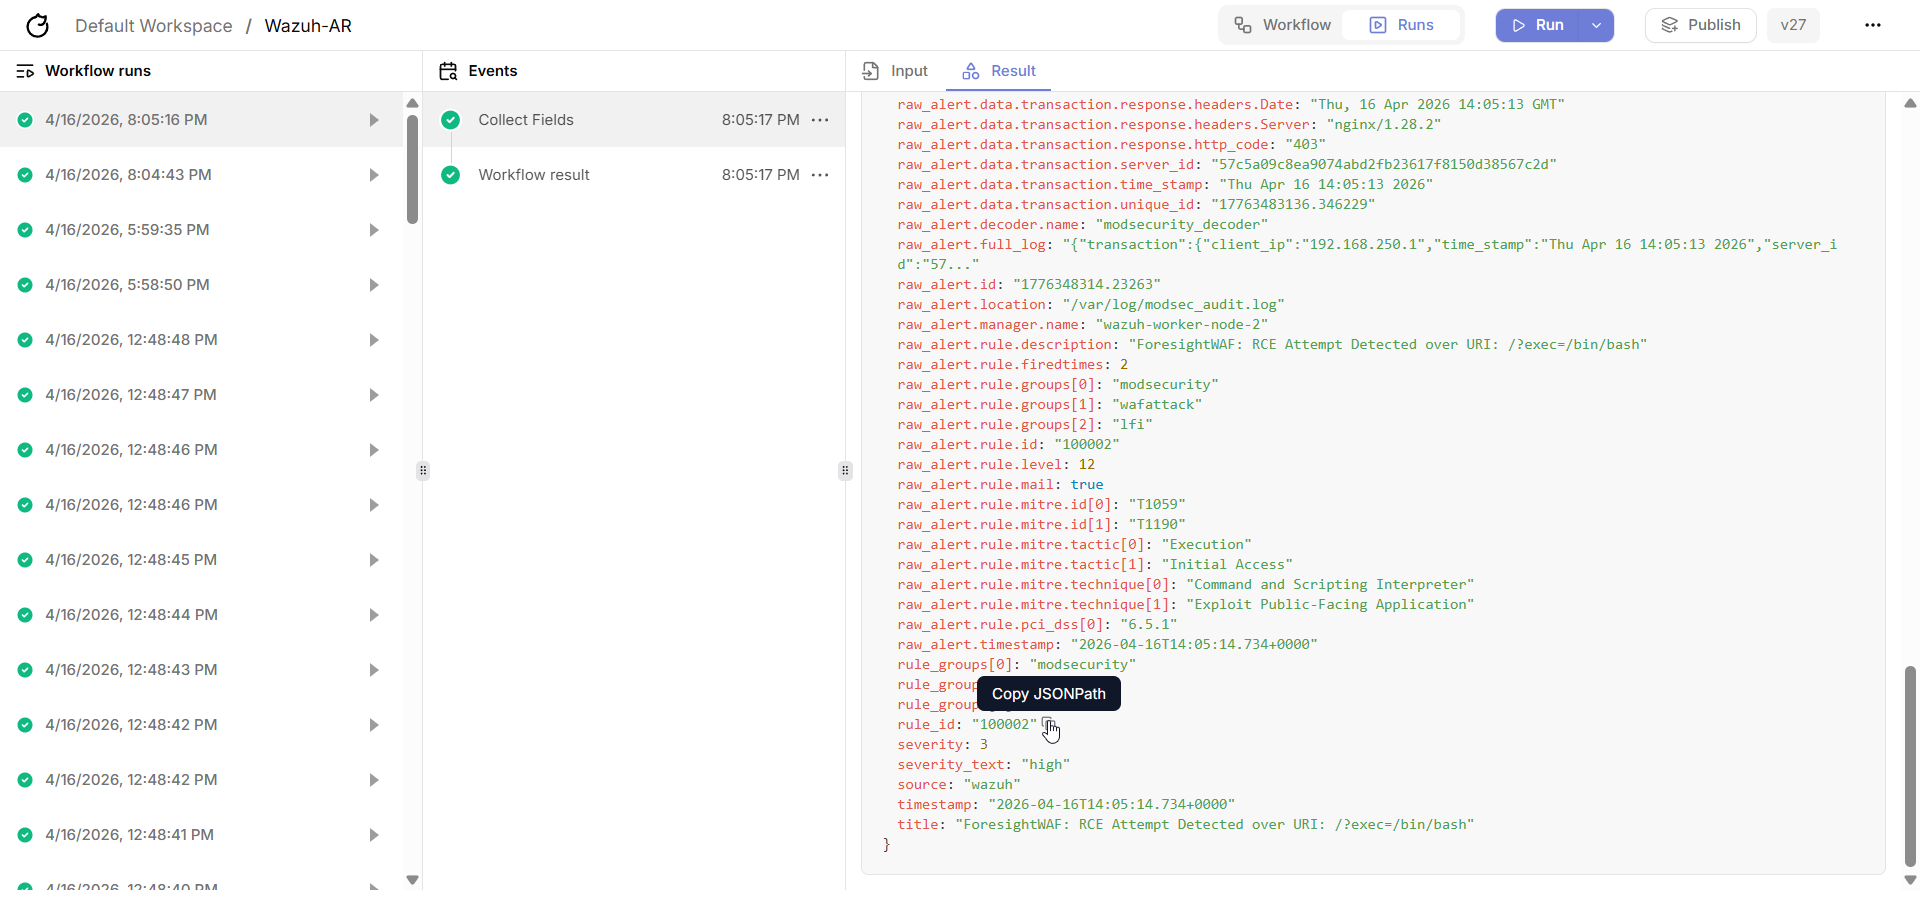
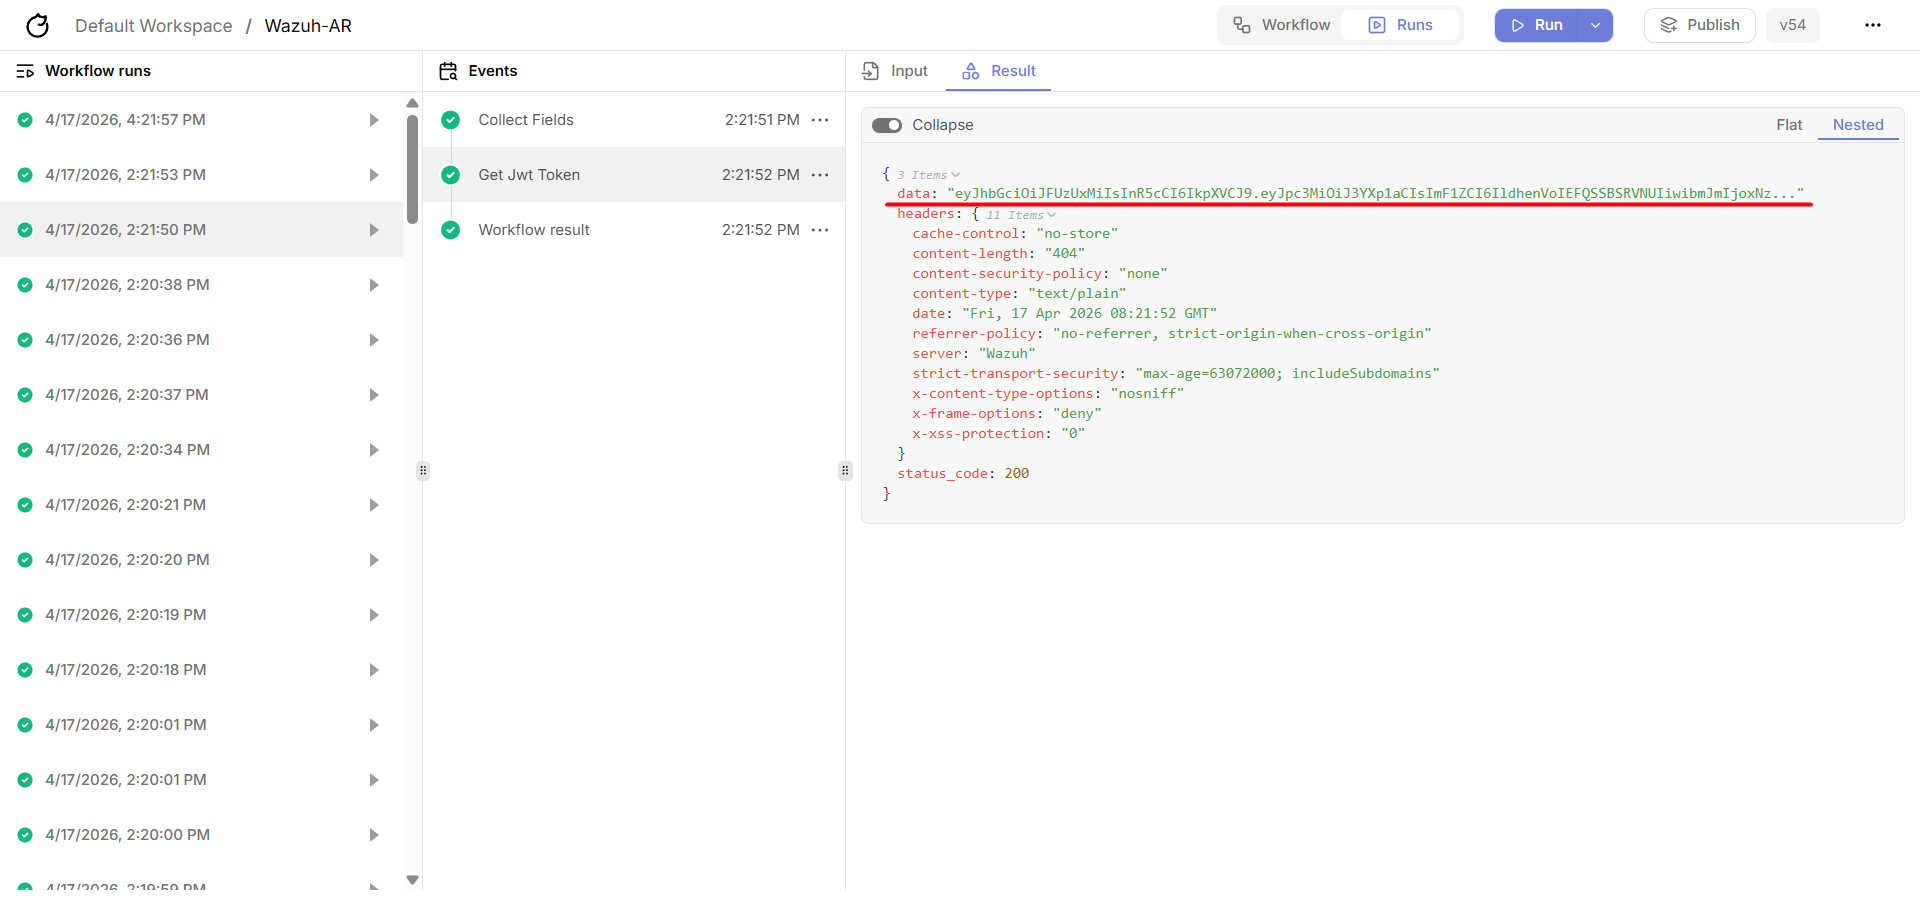
updated - prelease of wazuh and tracecat integration

diff --git a/source/projects/wazuh-tracecat-integration/tracecat-server-components.rst b/source/projects/wazuh-tracecat-integration/tracecat-server-components.rst
@@ -184,6 +184,22 @@ Follow the image below for a high level view of how the Http Request component i
 
 This way, you can easily configure the Http Request component to send the necessary API requests to Wazuh's API or any other third-party system as needed.
 
+You will be able to see the JWT token in the results tab of the Http Request component once the workflow is executed, 
+and you can use it in the other components that require it by using the expression ``${{ ACTIONS.[component_name].result.data }}`` to access it.
+
+Refer to the image below to see how the JWT token can be accessed in the other components using expressions,
+
+.. image:: ../../assets/images/projects/wazuh-tracecat-integration/tracecat-server-workflow-contifiguration-5.png
+    :alt: Tracecat Server, Accessing the JWT Token in Other Components Using Expressions
+    :align: center
+
+.. raw:: html
+    
+    <div style="height:25px;"></div>
+
+All you have to do is to copy the json path of the JWT token from the results tab of the Http Request component and 
+place it in the expression syntax to be able to access it in the other components that require it.
+
 Expressions
 -----------
 
@@ -199,7 +215,7 @@ replace it in the expression syntax like this: ``${{ rule.id }}``
 
 Follow the image below for a high level view of how to use expressions to access the fields from the incoming json data from Wazuh alerts,
 
-.. image:: ../../assets/images/projects/wazuh-tracecat-integration/tracecat-server-workflow-contifiguration-5.png
+.. image:: ../../assets/images/projects/wazuh-tracecat-integration/tracecat-server-workflow-contifiguration-6.png
     :alt: Tracecat Server, Using Expressions to Access the Fields from the Incoming Json Data from Wazuh Alerts
     :align: center
 

diff --git a/source/projects/wazuh-tracecat-integration/configuration-of-servers.rst b/source/projects/wazuh-tracecat-integration/configuration-of-servers.rst
@@ -1,7 +1,8 @@
 Configurations of Servers
 ==========================
 
-Now let's get started with the main work. We will be working with **2 servers** and **1 specific agent**.  
+Now let's get started with the main work. We will be working with **2 servers**.
+
 They are as follows:
 
 - **Tracecat Server**
